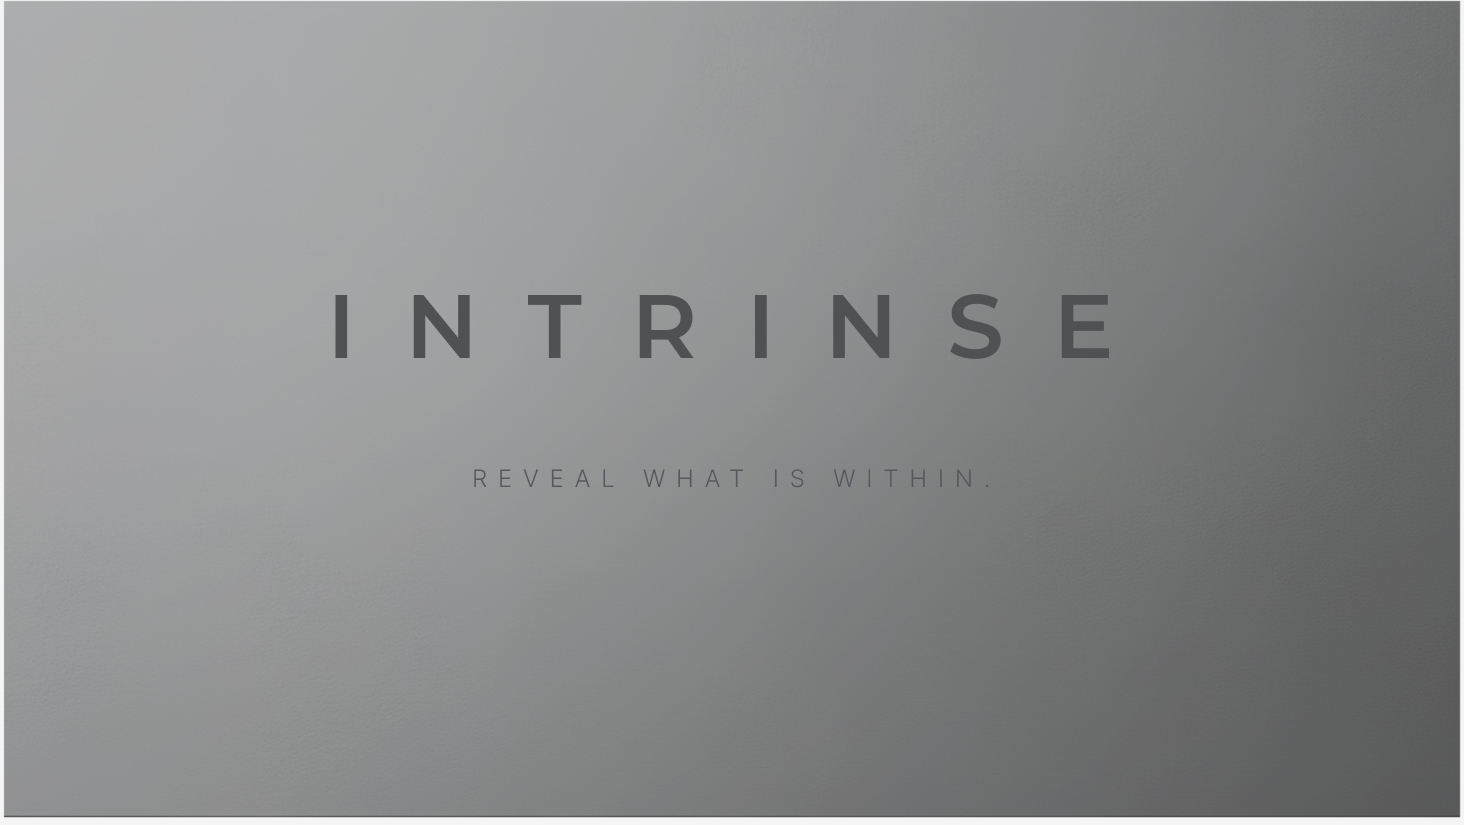
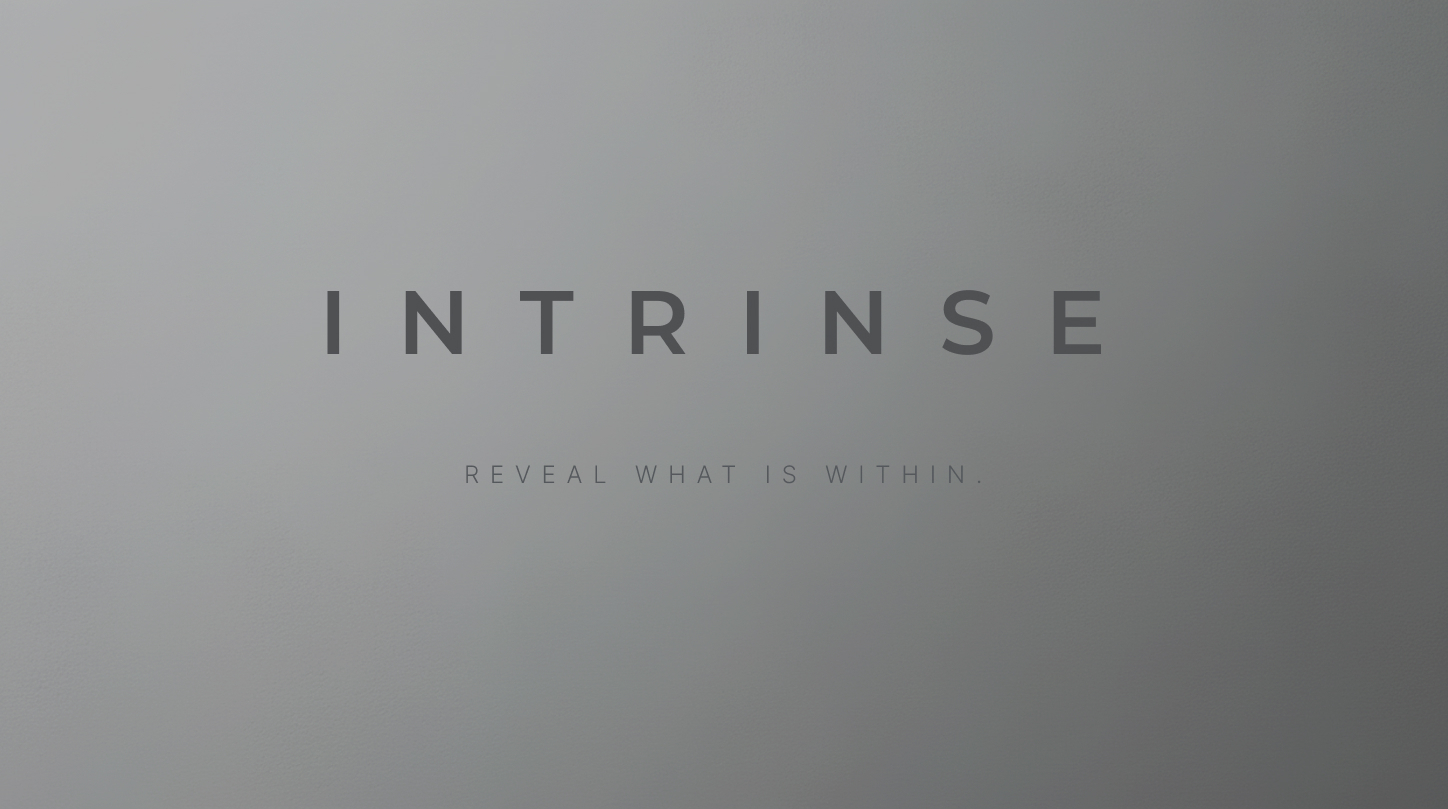
Trim hero image border, style footer copyright brand, drop teal atmosphere band
- img/hero.jpg had a genuine ~3-10px flat rgb(245,245,245) border baked
  in on all four edges (confirmed via pixel sampling — sharp, uniform,
  unlike the photo's natural gradient). Cropped it out: 1464x825 ->
  1448x809. Updated the <img> width/height attributes to match.
- Wrapped "INTRINSE" in the footer copyright line
  (© 2026 INTRINSE — Nothing more, nothing less.) in a new
  .f-copy-brand span: Montserrat 600, matching the wordmark elsewhere.
  One occurrence per page, all 6 pages.
- The mobile .dec-atmosphere gradient's teal/FOCUS band (rgba(60,85,91,…))
  was still producing a faint greenish tint at the viewport edge after
  the prior opacity reduction. Removed that band entirely rather than
  reducing it further; the rust and tan bands are untouched. Verified
  via pixel sampling along the right edge across the full page height
  — no more teal-shifted pixels in the STATES section.

diff --git a/index.html b/index.html
@@ -204,6 +204,7 @@ footer{background:var(--ink);color:#b4b1ab;padding:64px 0 40px;font-size:11.5px;
 .f-g a:hover{color:#fff}
 .f-links{display:flex;flex-wrap:wrap;gap:12px 26px}
 .f-logo{font-family:var(--f2);font-weight:600;letter-spacing:.4em;color:#fff;font-size:13px}
+.f-copy-brand{font-family:var(--f2);font-weight:600}
 
 @media(max-width:820px){
   .k-row{grid-template-columns:44px 1fr}
@@ -228,10 +229,6 @@ footer{background:var(--ink);color:#b4b1ab;padding:64px 0 40px;font-size:11.5px;
       rgba(156,74,58,.13) 0%,
       rgba(156,74,58,.04) 16%,
       transparent 26%,
-      transparent 34%,
-      rgba(60,85,91,.11) 46%,
-      rgba(60,85,91,.03) 58%,
-      transparent 63%,
       transparent 66%,
       rgba(163,143,121,.12) 78%,
       rgba(163,143,121,.05) 92%,
@@ -268,7 +265,7 @@ footer{background:var(--ink);color:#b4b1ab;padding:64px 0 40px;font-size:11.5px;
 <main>
 <!-- HERO -->
 <section id="hero" class="frame">
-  <img src="img/hero.jpg" alt="INTRINSE — Reveal what is within." class="hero-img" width="1464" height="825">
+  <img src="img/hero.jpg" alt="INTRINSE — Reveal what is within." class="hero-img" width="1448" height="809">
 </section>
 
 <!-- PHILOSOPHY SEQUENCE — statement, states, one system -->
@@ -732,7 +729,7 @@ footer{background:var(--ink);color:#b4b1ab;padding:64px 0 40px;font-size:11.5px;
     <div class="f-links">
       <a href="#decision">Shop</a><a href="#knowledge">Wissenswelt</a><a href="impressum.html">Impressum</a><a href="datenschutz.html">Datenschutz</a><a href="agb.html">AGB</a><a href="widerruf.html">Widerruf</a><a href="#" id="consent-manage">Cookie-Einstellungen</a>
     </div>
-    <div>&copy; 2026 INTRINSE — Nothing more, nothing less.</div>
+    <div>&copy; 2026 <span class="f-copy-brand">INTRINSE</span> — Nothing more, nothing less.</div>
   </div>
 </footer>
 

diff --git a/agb.html b/agb.html
@@ -38,6 +38,7 @@ footer{background:var(--ink);color:#b4b1ab;padding:64px 0 40px;font-size:11.5px;
 .f-g a:hover{color:#fff}
 .f-links{display:flex;flex-wrap:wrap;gap:12px 26px}
 .f-logo{font-family:var(--f2);font-weight:600;letter-spacing:.4em;color:#fff;font-size:13px}
+.f-copy-brand{font-family:var(--f2);font-weight:600}
 
 /* ── cookie consent ── */
 .consent-banner{position:fixed;left:0;right:0;bottom:0;z-index:100;background:var(--ink);color:#b4b1ab;font-size:11.5px;line-height:1.32;letter-spacing:.04em;opacity:0;transform:translateY(16px);transition:opacity .5s ease,transform .5s ease}
@@ -205,7 +206,7 @@ footer{background:var(--ink);color:#b4b1ab;padding:64px 0 40px;font-size:11.5px;
     <div class="f-links">
       <a href="index.html#decision">Shop</a><a href="index.html#knowledge">Wissenswelt</a><a href="impressum.html">Impressum</a><a href="datenschutz.html">Datenschutz</a><a href="agb.html">AGB</a><a href="widerruf.html">Widerruf</a><a href="mailto:hello@intrinse.eu">[Kontakt]</a><a href="#" id="consent-manage">Cookie-Einstellungen</a>
     </div>
-    <div>&copy; 2026 INTRINSE — Nothing more, nothing less.</div>
+    <div>&copy; 2026 <span class="f-copy-brand">INTRINSE</span> — Nothing more, nothing less.</div>
   </div>
 </footer>
 

diff --git a/datenschutz.html b/datenschutz.html
@@ -38,6 +38,7 @@ footer{background:var(--ink);color:#b4b1ab;padding:64px 0 40px;font-size:11.5px;
 .f-g a:hover{color:#fff}
 .f-links{display:flex;flex-wrap:wrap;gap:12px 26px}
 .f-logo{font-family:var(--f2);font-weight:600;letter-spacing:.4em;color:#fff;font-size:13px}
+.f-copy-brand{font-family:var(--f2);font-weight:600}
 
 /* ── cookie consent ── */
 .consent-banner{position:fixed;left:0;right:0;bottom:0;z-index:100;background:var(--ink);color:#b4b1ab;font-size:11.5px;line-height:1.32;letter-spacing:.04em;opacity:0;transform:translateY(16px);transition:opacity .5s ease,transform .5s ease}
@@ -151,7 +152,7 @@ footer{background:var(--ink);color:#b4b1ab;padding:64px 0 40px;font-size:11.5px;
     <div class="f-links">
       <a href="index.html#decision">Shop</a><a href="index.html#knowledge">Wissenswelt</a><a href="impressum.html">Impressum</a><a href="datenschutz.html">Datenschutz</a><a href="agb.html">AGB</a><a href="widerruf.html">Widerruf</a><a href="mailto:hello@intrinse.eu">[Kontakt]</a><a href="#" id="consent-manage">Cookie-Einstellungen</a>
     </div>
-    <div>&copy; 2026 INTRINSE — Nothing more, nothing less.</div>
+    <div>&copy; 2026 <span class="f-copy-brand">INTRINSE</span> — Nothing more, nothing less.</div>
   </div>
 </footer>
 

diff --git a/impressum.html b/impressum.html
@@ -35,6 +35,7 @@ footer{background:var(--ink);color:#b4b1ab;padding:64px 0 40px;font-size:11.5px;
 .f-g a:hover{color:#fff}
 .f-links{display:flex;flex-wrap:wrap;gap:12px 26px}
 .f-logo{font-family:var(--f2);font-weight:600;letter-spacing:.4em;color:#fff;font-size:13px}
+.f-copy-brand{font-family:var(--f2);font-weight:600}
 
 /* ── cookie consent ── */
 .consent-banner{position:fixed;left:0;right:0;bottom:0;z-index:100;background:var(--ink);color:#b4b1ab;font-size:11.5px;line-height:1.32;letter-spacing:.04em;opacity:0;transform:translateY(16px);transition:opacity .5s ease,transform .5s ease}
@@ -86,7 +87,7 @@ Wir sind zur Teilnahme an einem Streitbeilegungsverfahren vor einer Verbrauchers
     <div class="f-links">
       <a href="index.html#decision">Shop</a><a href="index.html#knowledge">Wissenswelt</a><a href="impressum.html">Impressum</a><a href="datenschutz.html">Datenschutz</a><a href="agb.html">AGB</a><a href="widerruf.html">Widerruf</a><a href="mailto:hello@intrinse.eu">[Kontakt]</a><a href="#" id="consent-manage">Cookie-Einstellungen</a>
     </div>
-    <div>&copy; 2026 INTRINSE — Nothing more, nothing less.</div>
+    <div>&copy; 2026 <span class="f-copy-brand">INTRINSE</span> — Nothing more, nothing less.</div>
   </div>
 </footer>
 

diff --git a/widerruf.html b/widerruf.html
@@ -38,6 +38,7 @@ footer{background:var(--ink);color:#b4b1ab;padding:64px 0 40px;font-size:11.5px;
 .f-g a:hover{color:#fff}
 .f-links{display:flex;flex-wrap:wrap;gap:12px 26px}
 .f-logo{font-family:var(--f2);font-weight:600;letter-spacing:.4em;color:#fff;font-size:13px}
+.f-copy-brand{font-family:var(--f2);font-weight:600}
 
 /* ── cookie consent ── */
 .consent-banner{position:fixed;left:0;right:0;bottom:0;z-index:100;background:var(--ink);color:#b4b1ab;font-size:11.5px;line-height:1.32;letter-spacing:.04em;opacity:0;transform:translateY(16px);transition:opacity .5s ease,transform .5s ease}
@@ -148,7 +149,7 @@ Datum</p>
     <div class="f-links">
       <a href="index.html#decision">Shop</a><a href="index.html#knowledge">Wissenswelt</a><a href="impressum.html">Impressum</a><a href="datenschutz.html">Datenschutz</a><a href="agb.html">AGB</a><a href="widerruf.html">Widerruf</a><a href="mailto:hello@intrinse.eu">[Kontakt]</a><a href="#" id="consent-manage">Cookie-Einstellungen</a>
     </div>
-    <div>&copy; 2026 INTRINSE — Nothing more, nothing less.</div>
+    <div>&copy; 2026 <span class="f-copy-brand">INTRINSE</span> — Nothing more, nothing less.</div>
   </div>
 </footer>
 

diff --git a/energy.html b/energy.html
@@ -110,6 +110,7 @@ footer{background:var(--ink);color:#b4b1ab;padding:64px 0 40px;font-size:11.5px;
 .f-g a:hover{color:#fff}
 .f-links{display:flex;flex-wrap:wrap;gap:12px 26px}
 .f-logo{font-family:var(--f2);font-weight:600;letter-spacing:.4em;color:#fff;font-size:13px}
+.f-copy-brand{font-family:var(--f2);font-weight:600}
 
 @media(max-width:820px){
   .shop-g{grid-template-columns:1fr;gap:44px}
@@ -178,7 +179,7 @@ footer{background:var(--ink);color:#b4b1ab;padding:64px 0 40px;font-size:11.5px;
     <div class="f-links">
       <a href="index.html#decision">Shop</a><a href="index.html#knowledge">Wissenswelt</a><a href="impressum.html">Impressum</a><a href="datenschutz.html">Datenschutz</a><a href="agb.html">AGB</a><a href="widerruf.html">Widerruf</a><a href="#" id="consent-manage">Cookie-Einstellungen</a>
     </div>
-    <div>&copy; 2026 INTRINSE — Nothing more, nothing less.</div>
+    <div>&copy; 2026 <span class="f-copy-brand">INTRINSE</span> — Nothing more, nothing less.</div>
   </div>
 </footer>
 
